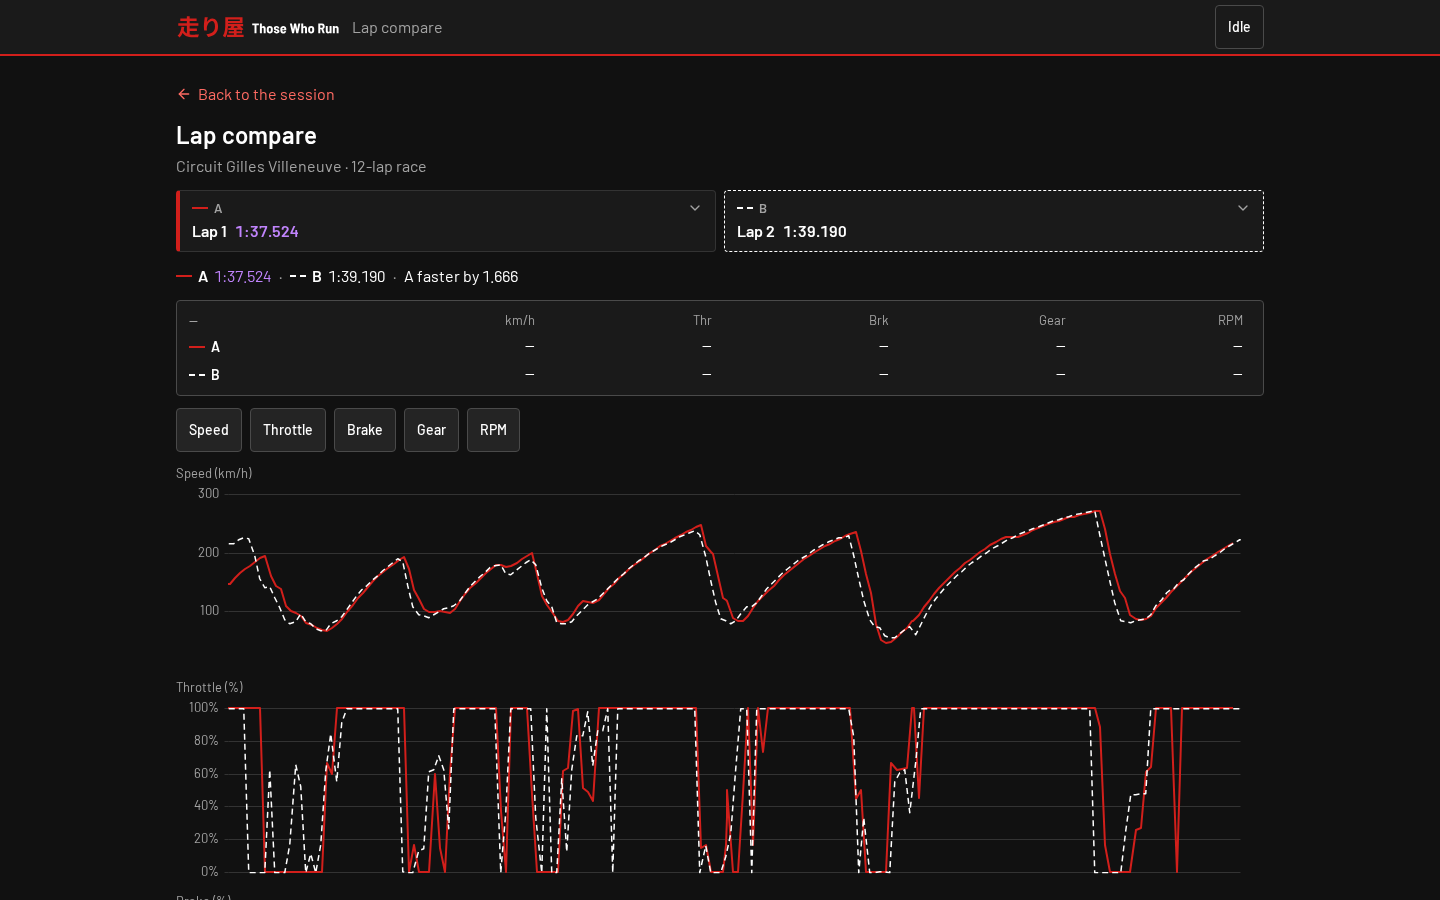
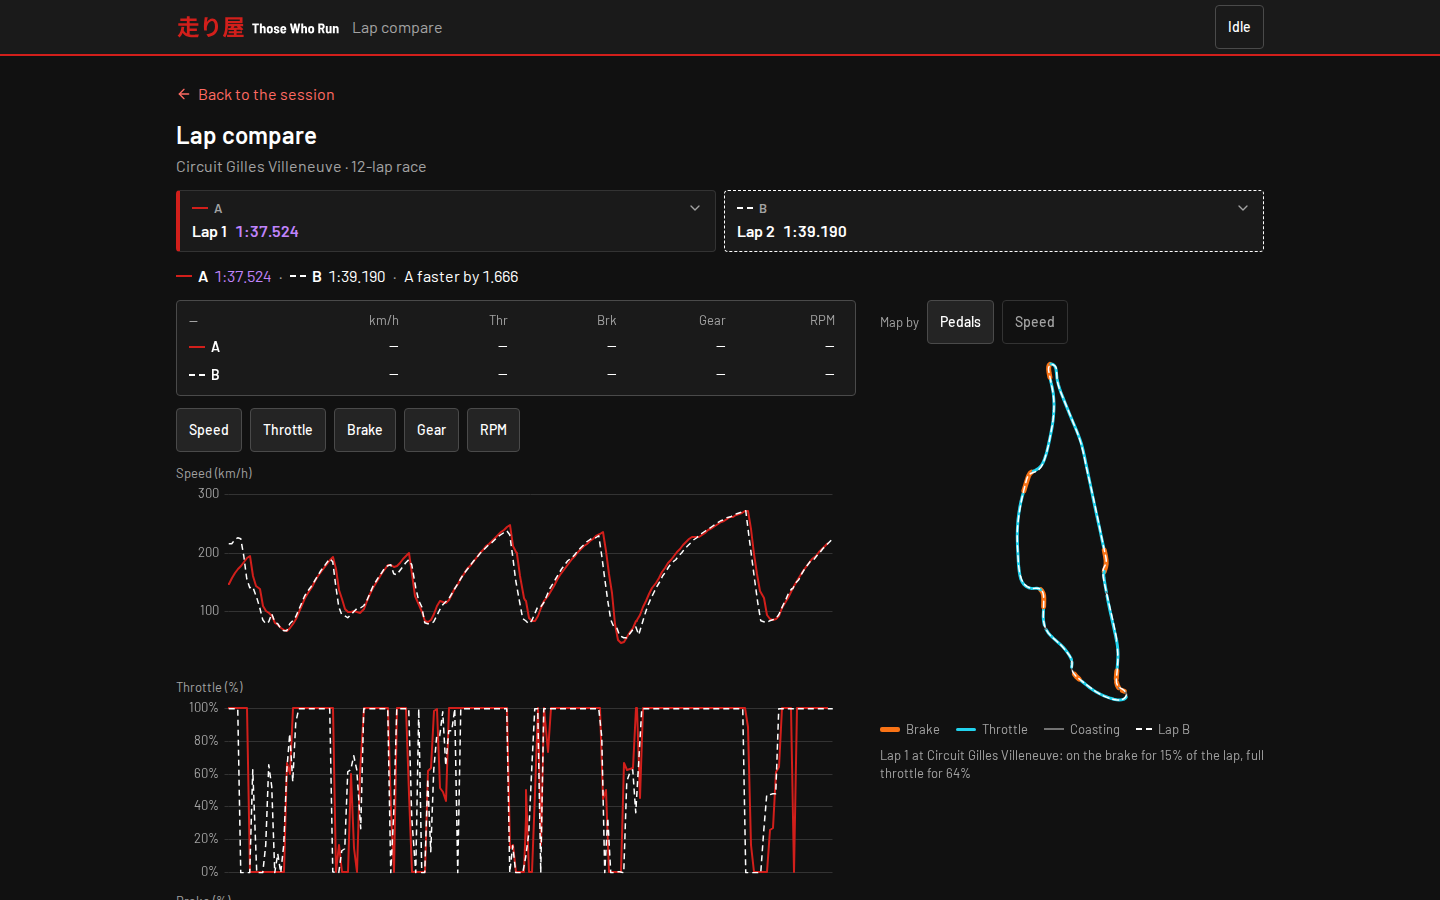
ci: make the guide's screenshots against v2, by hand or on a PR that changes them (#27)
* docs: the pit wall's guide, design values and web docs describe v2

The guide describes the Go server, Connect, logbook and the live KV, the one
pit wall address (ADR 0012), compose, the track map and the delete and
restore; v1's store, preview and port flags are gone, with a pointer to
logbook for the store. design.md, web/README.md and web/AGENTS.md drop v1's
server and Python, name v1's ADRs as v1's, and web/AGENTS.md's contract
section says how to bump and regenerate the client. The screenshots stay
v1's: no target makes them against v2 yet.

Part of those-who-run/paddock#135

* ci: make the guide's screenshots against v2, by hand or on a PR that changes them

The docs config came over from v1 unwired. The global setup takes
E2E_NO_LIVE_SESSION again, leaving the open session out of the main pit
wall; the docs spec uses the e2e suite's fixed clock, as the store's
sessions are dated by web/e2e/store/make.go, so E2E_REPLAY_CLOCK goes. The
docs config runs one worker, as the live bucket is shared. `make
docs-screenshots` runs it, and the docs-screenshots workflow (by hand, or on
a PR touching what makes the pictures) uploads them as an artifact.

Part of those-who-run/paddock#135

* docs: the chip under compose, why the screenshots are v1's, and review nits

* docs: the guide's screenshots, made against v2 by the docs-screenshots workflow

From the docs-screens artifact of this PR's run. The guide says how they are
made, in place of the line that they were v1's.
[…]

diff --git a/web/playwright.docs.config.ts b/web/playwright.docs.config.ts
@@ -2,18 +2,13 @@ import { defineConfig } from "@playwright/test";
 
 import { VIEWPORTS } from "./e2e/viewports";
 
-// Not brought over to v2 yet: those-who-run/paddock#130 was trimmed to leave the
-// docs' screenshots out (the Rosberg plan, 2026-10-31), and the global setup no
-// longer reads E2E_REPLAY_CLOCK or E2E_NO_LIVE_SESSION.
-//
-// The docs' screenshots (#336): `make docs-screenshots` runs this, never
-// `make web-check`. The same global setup as the e2e suite (the built app on the
-// real pit wall over the replayed fixtures, with the stub engineer), but the store
-// dated from a fixed time, so every run gives the same pictures. Writes
+// The docs' screenshots (#336; those-who-run/paddock#135): `make
+// docs-screenshots` runs this, and CI's docs-screenshots workflow, never `make
+// web-check`. The same global setup as the e2e suite (the built app on the Go API
+// over NATS and logbook's store, the engineer in the live bucket). The store's
+// sessions are dated by web/e2e/store/make.go and the browser's clock is fixed
+// (./e2e/pitwall.ts), so every run gives the same pictures. Writes
 // docs/assets/screens/<viewport>/<page>.png.
-
-/** The replayed sessions start here, an hour apart (./e2e/global-setup.ts). */
-process.env.E2E_REPLAY_CLOCK ??= String(Date.UTC(2026, 9, 18, 8, 0, 0) / 1000);
 
 /** No open session: the engineer chip says "Idle", so no card may say "Running". */
 process.env.E2E_NO_LIVE_SESSION = "1";
@@ -26,14 +21,16 @@ export default defineConfig({
   globalSetup: "./e2e/global-setup.ts",
   outputDir: "./test-results/docs",
   forbidOnly: !!process.env.CI,
-  fullyParallel: true,
-  reporter: "list",
+  // One worker, as the e2e suite: the engineer is the live bucket every test shares.
+  workers: 1,
+  reporter: process.env.CI ? [["list"], ["github"]] : "list",
   use: {
     browserName: "chromium",
     timezoneId: "UTC",
     locale: "en-GB",
     reducedMotion: "reduce",
     colorScheme: "dark",
+    trace: "retain-on-failure",
   },
   projects: VIEWPORTS.filter((v) => SIZES.includes(v.name)).map((v) => ({
     name: v.name,

diff --git a/web/e2e/docs.screens.ts b/web/e2e/docs.screens.ts
@@ -3,8 +3,8 @@
 // page, lap compare and /_kit, at the phone and desktop sizes, into
 // docs/assets/screens/<viewport>/<page>.png.
 //
-// The same pictures every run: the store is dated from a fixed time (the config's
-// E2E_REPLAY_CLOCK), the browser's clock is fixed after the newest session, the
+// The same pictures every run: the store's sessions are dated (./store/make.go),
+// the browser's clock is fixed after the newest session (./pitwall.ts's NOW), the
 // time zone and locale are set, motion is reduced, the fonts have loaded, the
 // engineer is in one scenario ("idle"), and no session is open (the docs config's
 // E2E_NO_LIVE_SESSION), so no card says "Running" under an "Idle" chip. Each shot
@@ -19,13 +19,10 @@ import { fileURLToPath } from "node:url";
 import type { Page, TestInfo } from "@playwright/test";
 
 import { setEngineer } from "./engineer";
-import { apiSessions, expect, test } from "./pitwall";
+import { apiSessions, expect, NOW, test } from "./pitwall";
 
 /** Where the docs' screenshots go, one directory per viewport. */
 const SCREENS = fileURLToPath(new URL("../../docs/assets/screens", import.meta.url));
-
-/** After the newest replayed session, on the same day (UTC). */
-const NOW = new Date("2026-10-18T20:00:00Z");
 
 const RACE = "Circuit Gilles Villeneuve · 12-lap race";
 
@@ -53,6 +50,11 @@ async function shoot(
     const height = await page.evaluate(() => document.documentElement.scrollHeight);
     await page.setViewportSize({ width, height });
   }
+  // No transition left to run: the pointer leaving the chip would otherwise fade
+  // its hover out during the shot, and differ from run to run. Animations stay:
+  // the skeletons fade in with one, and the shot's `animations: "disabled"`
+  // finishes them, where `animation: none` would leave them unseen.
+  await page.addStyleTag({ content: "*, *::before, *::after { transition: none !important; }" });
   await page.mouse.move(0, 0);
   const dir = join(SCREENS, testInfo.project.name);
   mkdirSync(dir, { recursive: true });

diff --git a/web/e2e/global-setup.ts b/web/e2e/global-setup.ts
@@ -19,6 +19,12 @@
 //
 // The engineer is the live bucket (./engineer.ts). E2E_CONTAINER names the
 // container runtime (docker unless set; podman works as well).
+//
+// E2E_NO_LIVE_SESSION=1 leaves the open session out of the main pit wall, so no
+// card says "Running" under an "Idle" chip: the docs' screenshots set it
+// (playwright.docs.config.ts). Their fixed clock needs nothing here: the store's
+// sessions are dated by web/e2e/store/make.go, and the browser's clock is fixed
+// in ./pitwall.ts.
 import { execFileSync, spawn, type ChildProcess } from "node:child_process";
 import { cpSync, existsSync, mkdtempSync, readFileSync, rmSync, writeFileSync } from "node:fs";
 import { createServer } from "node:net";
@@ -48,6 +54,12 @@ export const MISSING_LAP = 6;
 
 /** Sessions in the main store. */
 export const STORE_SESSIONS = STORES.main.length;
+
+/** The main pit wall's sources: STORES.main, without the open session when
+ * E2E_NO_LIVE_SESSION is 1. */
+export function mainSources(env: Record<string, string | undefined> = process.env): readonly string[] {
+  return env.E2E_NO_LIVE_SESSION === "1" ? STORES.main.filter((s) => s !== "replay-e2e-live") : STORES.main;
+}
 
 /** The other pit walls (#297 AC2, AC6, #299). */
 export type OtherStore = "short" | "empty" | "broken" | "compare";
@@ -210,7 +222,7 @@ export default async function globalSetup(): Promise<() => Promise<void>> {
     );
     await waitFor("logbook", 60_000, async () => (await fetch(`http://127.0.0.1:${healthPort}/healthz`)).ok);
 
-    const main = await startPitwall(bin, natsUrl, STORES.main);
+    const main = await startPitwall(bin, natsUrl, mainSources());
     pitwalls.push(main.process);
     // logbook answers once its services are up: the main pit wall's /healthz says.
     await waitFor("logbook's services", 30_000, async () => {

diff --git a/docs/pitwall.md b/docs/pitwall.md
@@ -46,20 +46,18 @@ keep for v2). One column, so it works on a phone straight after a race:
 |---|---|---|
 | Sessions | ![The session list on a phone: today's sessions as cards, each with its track, kind, car, time, result and best lap](assets/screens/phone/sessions.png) | ![The session list on a desktop: filters for track, car, kind and date over today's four sessions](assets/screens/desktop/sessions.png) |
 | A session | ![A 12-lap race at Circuit Gilles Villeneuve on a phone: P15 of 20, retired on lap 3, and stat tiles for best lap, average, laps, fuel used, pit stops and driving time, then the laps](assets/screens/phone/session.png) | ![The same race on a desktop: the result, the stat tiles and the lap table, with lap 1 the best and lap 3 partial](assets/screens/desktop/session.png) |
-| Lap compare | ![Lap compare on a phone: lap 1 against lap 2 of the race, the cursor readout, and the speed and throttle charts](assets/screens/phone/compare.png) | ![Lap compare on a desktop: lap 1, the best, against lap 2, with speed and throttle charts of both laps](assets/screens/desktop/compare.png) |
+| Lap compare | ![Lap compare on a phone: lap 1 against lap 2 of the race, the cursor readout, the channel toggles and the track map coloured by the pedals](assets/screens/phone/compare.png) | ![Lap compare on a desktop: lap 1, the best, against lap 2, with speed and throttle charts of both laps beside the track map coloured by the pedals](assets/screens/desktop/compare.png) |
 | `/_kit` | ![The component kit on a phone: lap times, gaps and positions in each of their states](assets/screens/phone/kit.png) | ![The component kit on a desktop: lap times, gaps, positions and kind badges in each of their states, loading included](assets/screens/desktop/kit.png) |
 
 `/_kit` is the component kit's review page (v1's
 [ADR 0004](https://github.com/those-who-run/those-who-run/blob/v1.0.0/docs/adr/0004-design-language.md)),
 not a page a driver uses.
 
-The screenshots are still v1's pit wall: v1's docs config made them
-(`make docs-screenshots`, those-who-run/those-who-run#381) before the web app
-moved here. v2 has no such target yet: `web/playwright.docs.config.ts` and
-`web/e2e/docs.screens.ts` came over, but the e2e set-up has no switch to leave
-out its open session, and the docs spec's clock is still v1's, so the pictures
-have not been made against v2. The pages they show are the same pages, but the
-lap compare pictures predate the track map.
+The screenshots are made by `make docs-screenshots`
+(`web/playwright.docs.config.ts`) over the e2e suite's store, with the
+engineer idle and no session open. CI's Docs screenshots workflow runs it, by
+hand or on a PR that changes what makes them, and uploads them as the
+`docs-screens` artifact: unzip it over `docs/assets/screens/` and commit.
 
 A closed session's page has **Delete**, which asks first, naming the
 session's track, car and date. A deleted session is left out of the list and
